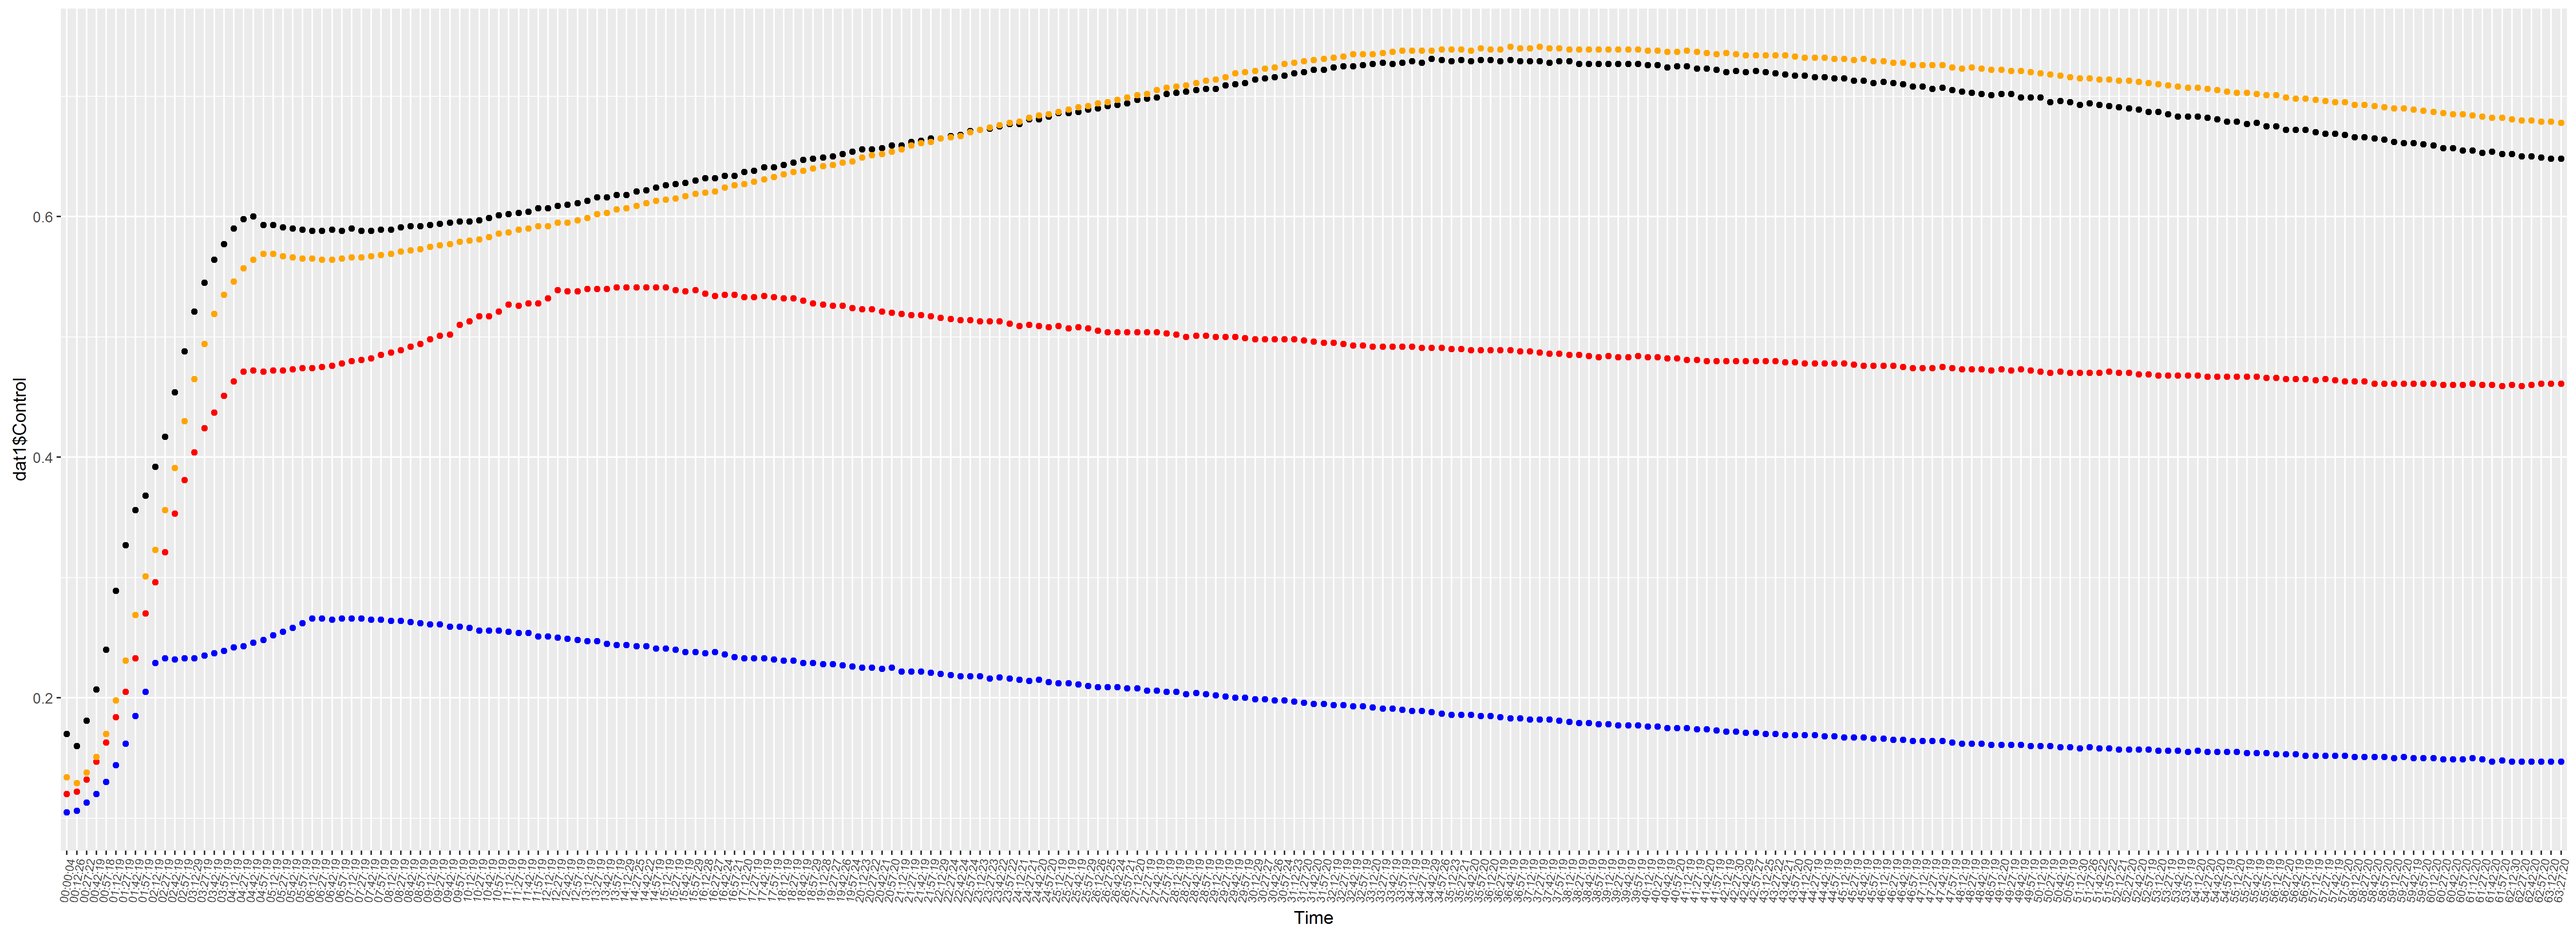
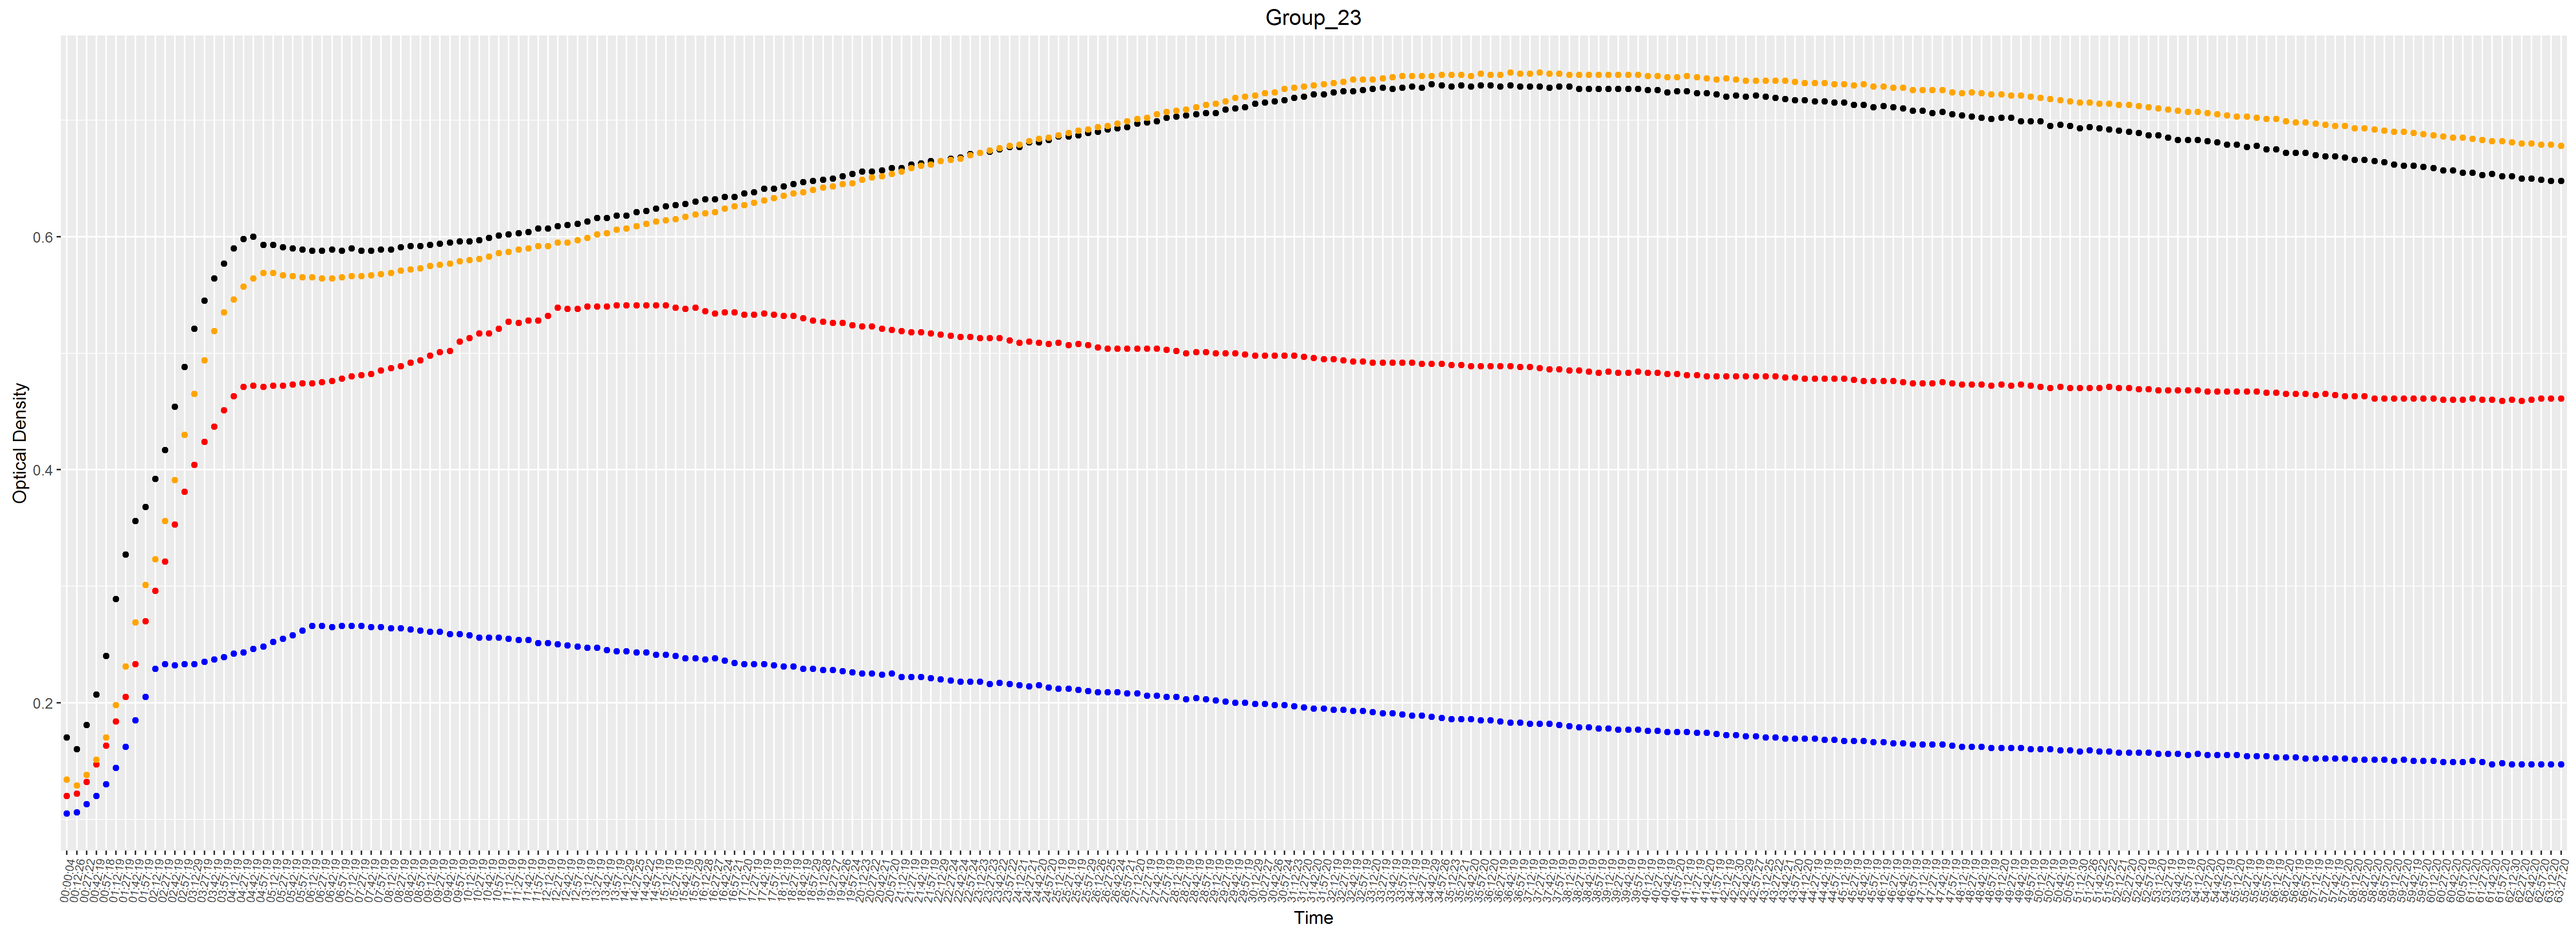
Fix Graph Label Error
grouping.R lack of quotations around the labs() title argument was
causing an incorrect Graph title and Y-Axis title to display

diff --git a/dataComp/functANDtests/dataIO.py b/dataComp/functANDtests/dataIO.py
@@ -202,7 +202,7 @@ def setup_ggploter(list_of_items_to_plot):
             #print(string_point) #test print
             ls_of_strings.append(string_point)
         #setup ggplot labs() function
-        string_labs='labs(title = '+str(group)+', x= \'Time\', y = \'Optical Density\') +'
+        string_labs='labs(title = \''+str(group)+'\', x= \'Time\', y = \'Optical Density\') +'
         ls_of_strings.append(string_labs)
         #setup ggplot theme() function
         string_theme='theme( axis.text.x= element_text(angle = 80, size = 7, vjust = 0.5) )\n'
